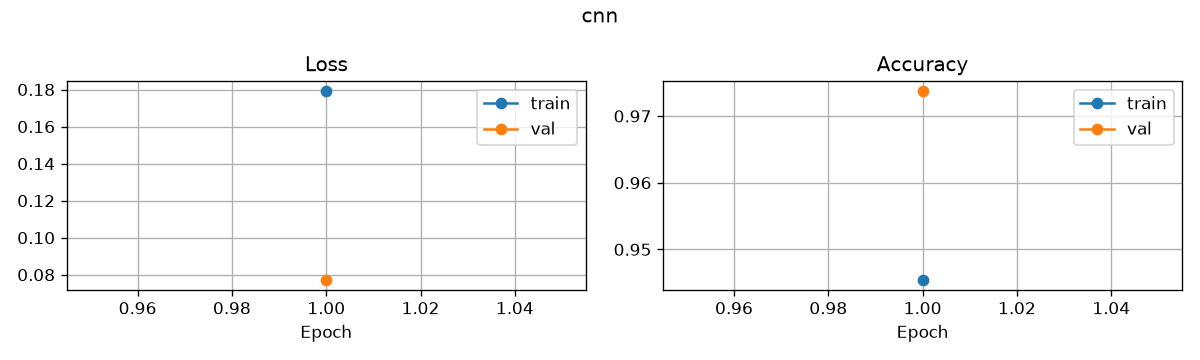
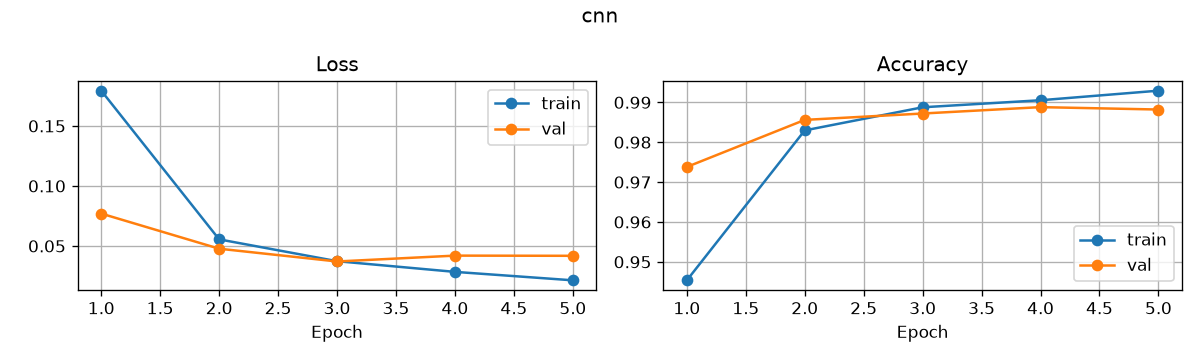
saved training times in csv

diff --git a/src/reports.py b/src/reports.py
@@ -1,0 +1,23 @@
+"""Training results shared between the training scripts and src/evaluate.py.
+
+Each training script records one row per model in reports/train_times.csv;
+retraining a model replaces its row, so the scripts can run in any order.
+"""
+
+from pathlib import Path
+
+import pandas as pd
+
+REPORTS_DIR = Path(__file__).resolve().parents[1] / "reports"
+TRAIN_TIMES_CSV = REPORTS_DIR / "train_times.csv"
+
+
+def save_train_time(name, train_time, val_acc, device="cpu"):
+    """Add or replace this model's row in reports/train_times.csv."""
+    row = pd.DataFrame([{"model": name, "train_time_s": round(train_time, 2),
+                         "val_acc": round(val_acc, 4), "device": device}])
+    if TRAIN_TIMES_CSV.exists():
+        old = pd.read_csv(TRAIN_TIMES_CSV)
+        row = pd.concat([old[old["model"] != name], row], ignore_index=True)  
+    REPORTS_DIR.mkdir(exist_ok=True)
+    row.to_csv(TRAIN_TIMES_CSV, index=False)

diff --git a/src/train_classical.py b/src/train_classical.py
@@ -14,6 +14,9 @@ from sklearn.metrics import accuracy_score
 from src.data import get_numpy_data
 from src.models.classical import logistic_regression, knn, random_forest, svm
 
+from src.reports import save_train_time
+
+
 
 MODELS = {
     "logreg": logistic_regression,
@@ -47,6 +50,8 @@ def main():
               f"predict {pred_time * 1000:.1f} ms ({pred_time / len(X_val) * 1000:.4f} ms/image)")
 
         joblib.dump(model, MODELS_DIR / f"{name}.joblib")
+        save_train_time(name, train_time, val_acc)
+
 
 
 

diff --git a/src/train_cnn.py b/src/train_cnn.py
@@ -18,6 +18,7 @@ import torch.nn as nn
 import torch.optim as optim
 from src.data import get_dataloaders, SEED
 from src.models.cnn import cnn, cnn_bn_dropout
+from src.reports import save_train_time
 
 
 MODELS = {
@@ -136,6 +137,7 @@ def main():
 
     MODELS_DIR.mkdir(exist_ok=True)
     torch.save(best_state, MODELS_DIR / f"{args.model}.pt")
+    save_train_time(args.model, train_time, val_acc, device=str(device))
     plot_history(history, args.model, FIGURES_DIR / f"{args.model}_training.png")
 
 
